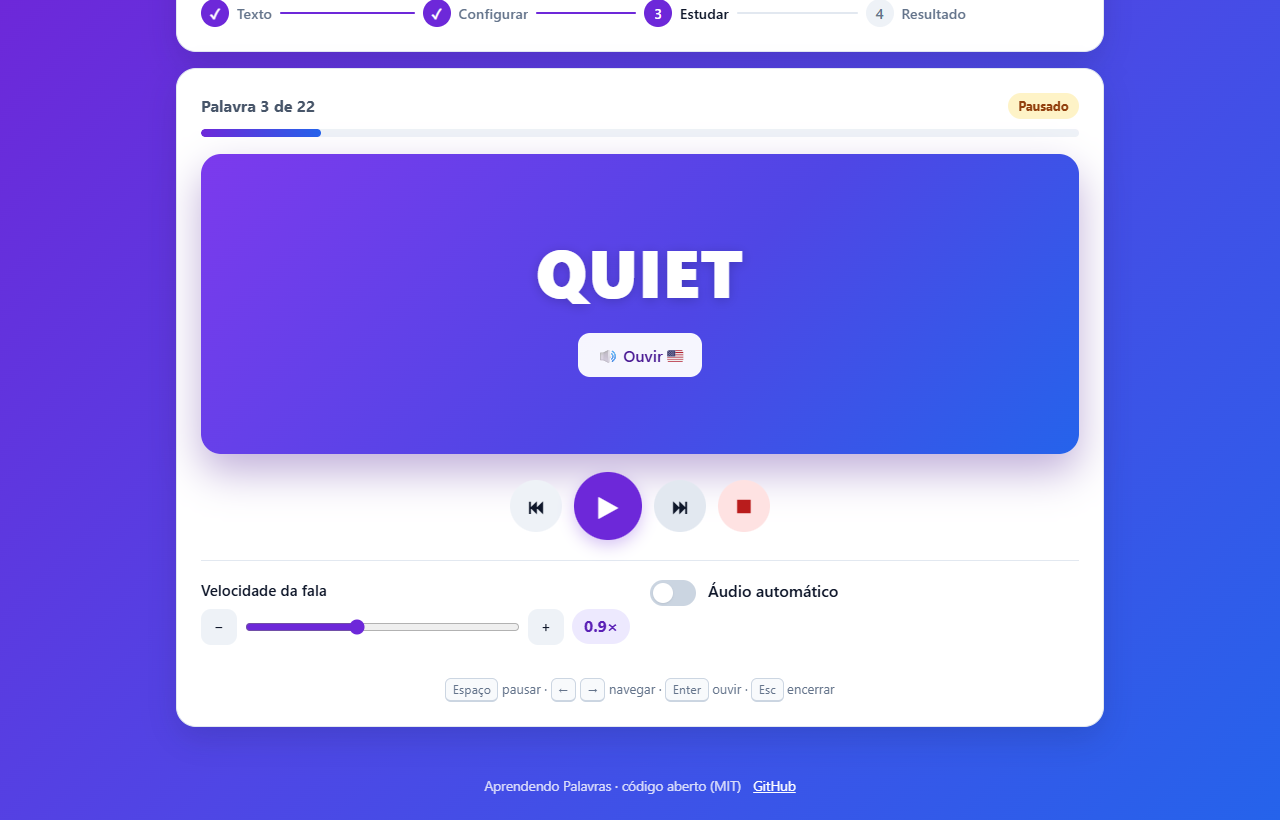
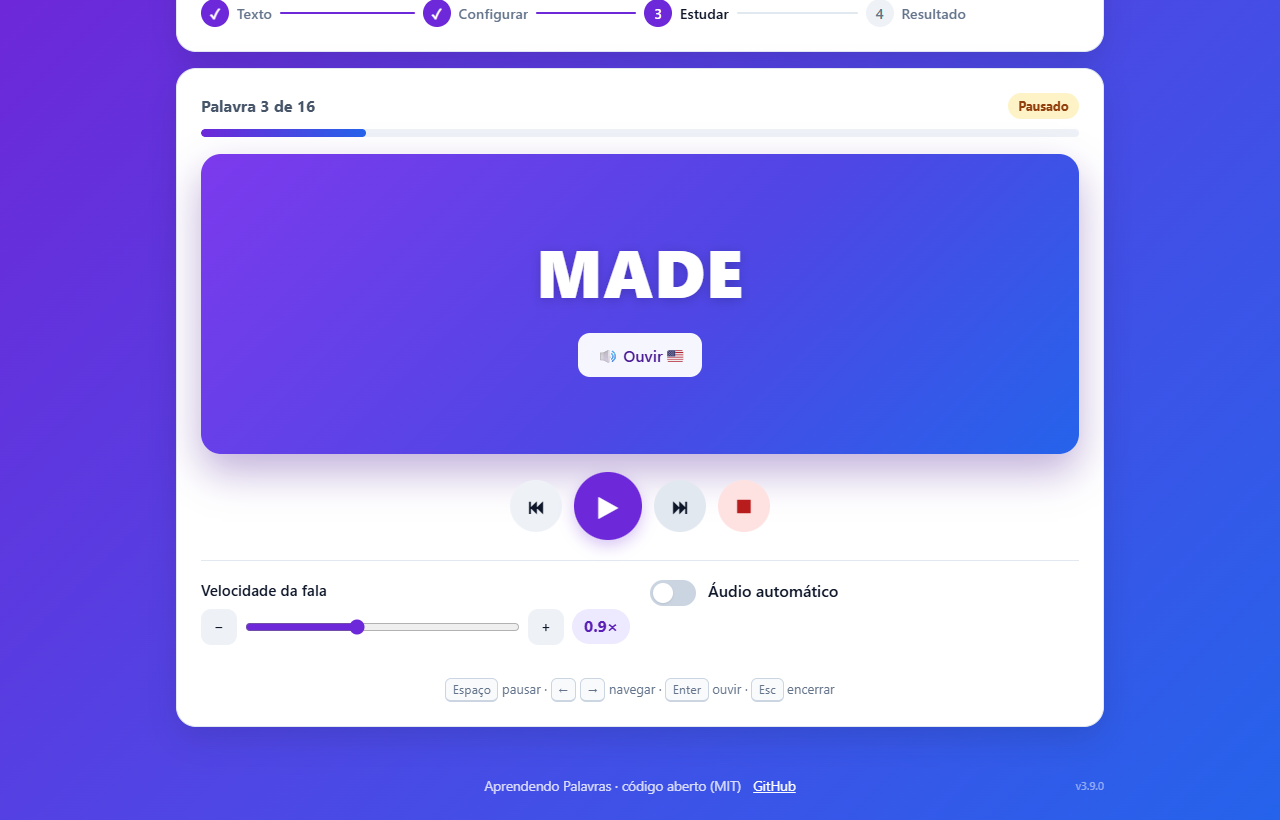
Mostra a versão no rodapé e revisa o app e a documentação (v3.9.0)
- Versão do app no rodapé, pequena e à direita (vem de config.js);
  no celular, vai para a linha de baixo
- Aviso de 'parte mais difícil' só no nível iniciante; dica de
  'gerar de novo' só para textos da IA
- Remove CSS sem uso e a captura de tela que não era usada
- Capturas de tela refeitas (inclui a página de tradução do PDF)
- Documentação revisada: README, ARQUITETURA, FORMATO-PDF, ROADMAP,
  CONTRIBUTING, descrição do PWA e modelo de relato (pede a versão)

diff --git a/js/create/generator.js b/js/create/generator.js
@@ -85,12 +85,13 @@ async function buscarReferencia({ tema, idioma, nivel, fetchFn, aoEtapa, palavra
 }
 
 /** Aviso para textos da Wikipédia entregues sem IA (mais difíceis ou mais curtos que o pedido). */
-function avisoSemIA(referencia, palavras) {
+function avisoSemIA(referencia, palavras, nivel) {
   const total = contarPalavras(referencia.texto);
   if (total < palavras * FRACAO_MINIMA) {
     return `A Wikipédia só tem ${total} palavras sobre “${referencia.titulo}” (o nível pede ${palavras}). Para um texto maior, configure a IA (Gemini) ou escolha um tema mais amplo.`;
   }
-  if (referencia.complemento) {
+  // Só para iniciantes a Wikipédia normal é "mais difícil" que o esperado.
+  if (referencia.complemento && nivel === 'iniciante') {
     return 'O artigo em inglês simples era curto: a parte final veio da Wikipédia em inglês normal, que é mais difícil. Com a IA (Gemini) configurada, o texto todo sai no nível escolhido.';
   }
   return '';
@@ -182,11 +183,11 @@ export async function criarTexto({
         aoEtapa?.('Não foi possível adaptar; mostrando o artigo original.');
         texto = prepararArtigo(artigo.texto, { maxPalavras: alvo });
         aoTexto?.(texto);
-        aviso = avisoSemIA({ ...artigo, texto }, alvo);
+        aviso = avisoSemIA({ ...artigo, texto }, alvo, nivel);
       }
     } else {
       aoTexto?.(texto);
-      aviso = avisoSemIA(artigo, alvo);
+      aviso = avisoSemIA(artigo, alvo, nivel);
     }
     return resultado({
       modo,
@@ -236,7 +237,7 @@ export async function criarTexto({
         nivel,
         fonte: fonteWikipedia(referencia),
         geradoPorIA: false,
-        aviso: avisoSemIA(referencia, alvo),
+        aviso: avisoSemIA(referencia, alvo, nivel),
       });
     }
     throw new Error(

diff --git a/js/screens/CreateScreen.js b/js/screens/CreateScreen.js
@@ -66,6 +66,14 @@ const SUGESTOES = [
   'Meio ambiente',
 ];
 
+/** Dica quando o nível estimado não bate com o pedido (gerar de novo só ajuda com a IA). */
+function dicaNivel(resultado, analise) {
+  if (analise.nivelEstimado === resultado.nivel) return '';
+  return resultado.geradoPorIA
+    ? ' — gere de novo se quiser mais próximo do pedido'
+    : ' — o texto vem da Wikipédia como está; com a IA (Gemini), ele é adaptado ao nível';
+}
+
 export class CreateScreen {
   constructor() {
     const prefs = settings.carregar();
@@ -318,7 +326,7 @@ export class CreateScreen {
           a
             ? html`<p class="texto-pequeno texto-suave">
               ${a.palavras} palavras · ${a.palavrasPorFrase} palavras por frase · legibilidade ${a.facilidade}/100
-              (parece nível <strong>${estimado.nome}</strong>${a.nivelEstimado !== r.nivel ? ' — gere de novo se quiser mais próximo do pedido' : ''})
+              (parece nível <strong>${estimado.nome}</strong>${dicaNivel(r, a)})
             </p>`
             : ''
         }

diff --git a/css/base.css b/css/base.css
@@ -278,15 +278,46 @@ a {
   max-width: var(--largura);
   margin: 0 auto;
   padding: 1rem 1rem max(1.5rem, env(safe-area-inset-bottom));
-  display: flex;
-  justify-content: center;
+  /* Textos no centro e a versão, bem pequena, à direita. */
+  display: grid;
+  grid-template-columns: 1fr auto 1fr;
+  align-items: center;
   gap: 0.75rem;
   font-size: 0.85rem;
   color: rgba(255, 255, 255, 0.8);
 }
 
+.rodape__textos {
+  grid-column: 2;
+  display: flex;
+  flex-wrap: wrap;
+  justify-content: center;
+  gap: 0.75rem;
+  text-align: center;
+}
+
+.rodape__versao {
+  grid-column: 3;
+  justify-self: end;
+  font-size: 0.7rem;
+  opacity: 0.6;
+  font-variant-numeric: tabular-nums;
+}
+
 .rodape a {
   color: #fff;
+}
+
+@media (max-width: 560px) {
+  .rodape {
+    grid-template-columns: 1fr;
+    gap: 0.35rem;
+  }
+
+  .rodape__textos,
+  .rodape__versao {
+    grid-column: 1;
+  }
 }
 
 /* --------------------------------------------------------------------------

diff --git a/js/main.js b/js/main.js
@@ -2,7 +2,7 @@
  * Ponto de entrada do aplicativo.
  */
 
-import { TIPOS } from './config.js';
+import { APP, TIPOS } from './config.js';
 import { definirNavegador, ROTAS } from './core/nav.js';
 import { criarRouter } from './core/router.js';
 import { speaker, vozes } from './audio/index.js';
@@ -18,6 +18,8 @@ import { toast } from './ui/toast.js';
 
 function iniciar() {
   iniciarTema();
+  const versao = document.getElementById('versaoApp');
+  if (versao) versao.textContent = `v${APP.versao}`;
 
   const raiz = document.getElementById('app');
   const botaoInicio = document.getElementById('btnInicio');

diff --git a/index.html b/index.html
@@ -93,10 +93,13 @@
     </main>
 
     <footer class="rodape">
-      <span>Aprendendo Palavras · código aberto (MIT)</span>
-      <a href="https://github.com/Joshpcbrrj/projeto-palavras" target="_blank" rel="noopener"
-        >GitHub</a
-      >
+      <span class="rodape__textos">
+        <span>Aprendendo Palavras · código aberto (MIT)</span>
+        <a href="https://github.com/Joshpcbrrj/projeto-palavras" target="_blank" rel="noopener"
+          >GitHub</a
+        >
+      </span>
+      <span class="rodape__versao" id="versaoApp" title="Versão do app"></span>
     </footer>
   </body>
 </html>

diff --git a/sw.js b/sw.js
@@ -6,7 +6,7 @@
  * subdiretórios (ex.: GitHub Pages em /projeto-palavras/).
  */
 
-const VERSAO = 'v3.8.0';
+const VERSAO = 'v3.9.0';
 const CACHE_APP = `aprendendo-palavras-${VERSAO}`;
 const CACHE_CDN = 'aprendendo-palavras-cdn';
 

diff --git a/js/config.js b/js/config.js
@@ -6,7 +6,7 @@
 export const APP = Object.freeze({
   nome: 'Aprendendo Palavras',
   id: 'aprendendo-palavras',
-  versao: '3.8.0',
+  versao: '3.9.0',
 });
 
 export const TIPOS = Object.freeze({

diff --git a/css/components.css b/css/components.css
@@ -270,10 +270,6 @@
   border-radius: 10px;
 }
 
-.campo--acao {
-  justify-content: flex-end;
-}
-
 .input {
   width: 100%;
   min-height: 44px;

diff --git a/README.md b/README.md
@@ -35,20 +35,20 @@
 
 ## Recursos
 
-|                                        |                                                                                                                                                                                                                                                                   |
-| -------------------------------------- | ----------------------------------------------------------------------------------------------------------------------------------------------------------------------------------------------------------------------------------------------------------------- |
-| ✨ **Criar textos**                    | Diálogos sobre qualquer tema, explicações estilo enciclopédia (Wikipédia, com Simple English para iniciantes) e textos no seu nível (iniciante, intermediário, fluente). Tema pode ser digitado em português. Usa a Wikipédia e o Google Gemini (chave gratuita). |
-| 🎵 **Exportar MP3**                    | Áudio de textos (com uma voz por pessoa nos diálogos) e da pronúncia das palavras/frases estudadas, com repetições, pausas e o número de cada item (para acompanhar no PDF) — grátis, com a voz neural Kokoro gerada no próprio navegador.                        |
-| 📖 **Flashcards de palavras e frases** | Cole um texto e o app extrai as palavras (sem repetições e, se quiser, sem as muito comuns como “the”, “to”, “is”) ou as frases. Funciona com qualquer alfabeto, inclusive japonês e chinês.                                                                      |
-| 🔊 **Pronúncia automática**            | Cada item é falado ao aparecer, com repetição de 1× a 3×, velocidade ajustável e escolha da voz.                                                                                                                                                                  |
-| ⏯ **Controle total do estudo**        | Pausar, voltar, avançar e ouvir de novo — com atalhos de teclado.                                                                                                                                                                                                 |
-| 🎧 **Leitura de textos**               | O texto é lido frase a frase com destaque na tela; clique em qualquer frase para ouvir a partir dela, repita a frase atual ou adicione pausas.                                                                                                                    |
-| 📦 **Kit de estudo**                   | PDF + MP3 com um clique, com o mesmo nome de arquivo. No fim do PDF, uma página com **tudo traduzido para o português** (mesma numeração ou mesmos parágrafos), para revisar rápido.                                                                              |
-| 📄 **PDFs revisáveis**                 | Os PDFs exportados guardam os dados exatos do estudo e a data da próxima revisão. Abra-os depois em “Revisar arquivo” para continuar.                                                                                                                             |
-| 🗓 **Revisão espaçada**                | Cada revisão concluída agenda a próxima (1 → 3 → 7 → 14 → 30 → 60 dias). Revisões pendentes aparecem na tela inicial.                                                                                                                                             |
-| 📈 **Progresso**                       | Sessões, tempo de estudo, palavras estudadas, textos/PDFs/MP3 criados, dias seguidos e backup em JSON que pode ser **juntado** entre aparelhos.                                                                                                                   |
-| 🌙 **Tema claro e escuro**             | Segue o sistema automaticamente ou pela sua escolha.                                                                                                                                                                                                              |
-| 📱 **PWA**                             | Instale no celular ou no computador e use offline.                                                                                                                                                                                                                |
+|                                        |                                                                                                                                                                                                                                                                                                 |
+| -------------------------------------- | ----------------------------------------------------------------------------------------------------------------------------------------------------------------------------------------------------------------------------------------------------------------------------------------------- |
+| ✨ **Criar textos**                    | Diálogos sobre qualquer tema, explicações estilo enciclopédia (Wikipédia, com Simple English para iniciantes) e textos no seu nível (iniciante, intermediário, fluente — 700, 1.200 e 2.000 palavras). Tema pode ser digitado em português. Usa a Wikipédia e o Google Gemini (chave gratuita). |
+| 🎵 **Exportar MP3**                    | Áudio de textos (com uma voz por pessoa nos diálogos) e da pronúncia das palavras/frases estudadas, com repetições, pausas e o número de cada item (para acompanhar no PDF) — grátis, com a voz neural Kokoro gerada no próprio navegador.                                                      |
+| 📖 **Flashcards de palavras e frases** | Cole um texto e o app extrai as palavras (sem repetições e, se quiser, sem as muito comuns como “the”, “to”, “is”) ou as frases. Funciona com qualquer alfabeto, inclusive japonês e chinês.                                                                                                    |
+| 🔊 **Pronúncia automática**            | Cada item é falado ao aparecer, com repetição de 1× a 3×, velocidade ajustável e escolha da voz.                                                                                                                                                                                                |
+| ⏯ **Controle total do estudo**        | Pausar, voltar, avançar e ouvir de novo — com atalhos de teclado.                                                                                                                                                                                                                               |
+| 🎧 **Leitura de textos**               | O texto é lido frase a frase com destaque na tela; clique em qualquer frase para ouvir a partir dela, repita a frase atual ou adicione pausas.                                                                                                                                                  |
+| 📦 **Kit de estudo**                   | PDF + MP3 com um clique, com o mesmo nome de arquivo. No fim do PDF, uma página com **tudo traduzido para o português** (mesma numeração ou mesmos parágrafos), para revisar rápido.                                                                                                            |
+| 📄 **PDFs revisáveis**                 | Os PDFs exportados guardam os dados exatos do estudo e a data da próxima revisão. Abra-os depois em “Revisar arquivo” para continuar.                                                                                                                                                           |
+| 🗓 **Revisão espaçada**                | Cada revisão concluída agenda a próxima (1 → 3 → 7 → 14 → 30 → 60 dias). Revisões pendentes aparecem na tela inicial.                                                                                                                                                                           |
+| 📈 **Progresso**                       | Sessões, tempo de estudo, palavras estudadas, textos/PDFs/MP3 criados, dias seguidos e backup em JSON que pode ser **juntado** entre aparelhos.                                                                                                                                                 |
+| 🌙 **Tema claro e escuro**             | Segue o sistema automaticamente ou pela sua escolha.                                                                                                                                                                                                                                            |
+| 📱 **PWA**                             | Instale no celular ou no computador e use offline.                                                                                                                                                                                                                                              |
 
 <table>
   <tr>
@@ -57,7 +57,7 @@
   </tr>
   <tr>
     <td><img src="docs/screenshots/leitura.png" alt="Leitura de texto com a frase atual destacada" /></td>
-    <td><img src="docs/screenshots/mp3.png" alt="Exportação de áudio MP3" /></td>
+    <td><img src="docs/screenshots/mp3.png" alt="Kit de estudo: PDF e MP3 com o mesmo nome" /></td>
   </tr>
   <tr>
     <td><img src="docs/screenshots/revisar.png" alt="Revisão de um PDF exportado" /></td>
@@ -67,7 +67,7 @@
 
 ## Como usar
 
-1. **Criar um texto** — em **Criar textos**, escolha o modo (diálogo, mergulhar no tema ou por nível), digite o tema (pode ser em português), o nível e clique em **Criar texto**. Depois, ouça, gere o PDF/MP3 ou transforme em flashcards.
+1. **Criar um texto** — em **Criar textos**, escolha o modo (diálogo, mergulhar no tema ou por nível), digite o tema (pode ser em português), o nível (que também define o tamanho do texto) e clique em **Criar texto**. Depois, ouça, gere o PDF/MP3 ou transforme em flashcards.
 2. **Estudar palavras ou frases** — cole um texto (ou abra um `.txt`), confira o idioma e a quantidade e clique em **Iniciar estudo**. Voz, repetição, velocidade, pausa e ordem ficam em **Mais opções**.
 3. **Durante o estudo** — use os botões ou o teclado:
 
@@ -91,8 +91,9 @@ Cada PDF tem duas camadas:
 - **O que o app lê** — um pacote com os dados exatos (itens, idioma, título e agenda de revisão) guardado nas propriedades do documento. Assim a revisão não depende de “adivinhar” o conteúdo a partir do texto do PDF.
 
 <details>
-<summary>Exemplo de PDF gerado</summary>
-<img src="docs/screenshots/pdf-palavras.png" alt="Exemplo de PDF de palavras" width="520" />
+<summary>Exemplo de PDF gerado (lista e página de tradução)</summary>
+<img src="docs/screenshots/pdf-palavras.png" alt="Exemplo de PDF de palavras" width="420" />
+<img src="docs/screenshots/pdf-traducao.png" alt="Página de tradução no fim do PDF, com a mesma numeração da lista" width="420" />
 </details>
 
 PDFs gerados pelas **versões anteriores** do app continuam funcionando: o conteúdo é reconstruído a partir do texto. Idiomas fora do alfabeto latino (russo, japonês, chinês, coreano) aparecem corretamente no PDF. Detalhes técnicos em [docs/FORMATO-PDF.md](docs/FORMATO-PDF.md).
@@ -118,7 +119,7 @@ O nível define a dificuldade **e o tamanho** do texto — no mínimo 700 palavr
 | Fluente       | 2.000             | ≈ 6 páginas |
 
 - **Com o Gemini:** se o texto sair mais curto que o pedido, o app pede para a IA continuar (até 3 vezes), sem repetir o que já foi escrito. Textos longos são divididos em seções com título.
-- **Só com a Wikipédia:** o artigo é usado até o tamanho do nível. Para iniciantes, a Simple English costuma ser curta; ela é completada com as seções do mesmo artigo na Wikipédia em inglês normal (mais difícil — o app avisa). Se o artigo inteiro for curto, o app também avisa.
+- **Só com a Wikipédia:** o artigo é usado até o tamanho do nível, sem pular parágrafos. A Simple English costuma ser curta; ela é completada com as seções do mesmo artigo na Wikipédia em inglês normal (para iniciantes, essa parte é mais difícil — o app avisa). Se o artigo inteiro for curto, o app também avisa.
 
 ### Tradução no final do PDF
 
@@ -179,7 +180,7 @@ Sem Node, você pode usar, por exemplo, `python -m http.server` na pasta do proj
 
 ### Publicação
 
-O site é servido diretamente pelo GitHub Pages a partir da branch `main` (todos os caminhos são relativos). Ao publicar uma nova versão, altere `VERSAO` em [`sw.js`](sw.js) para que os usuários recebam os arquivos atualizados.
+O site é servido diretamente pelo GitHub Pages a partir da branch `main` (todos os caminhos são relativos). Ao publicar uma nova versão, atualize o número em três lugares — `version` no [`package.json`](package.json), `APP.versao` em [`js/config.js`](js/config.js) (é o que aparece no rodapé do app) e `VERSAO` em [`sw.js`](sw.js) (faz os usuários receberem os arquivos novos). Um teste confere se os três estão iguais.
 
 ## Arquitetura
 
@@ -211,18 +212,19 @@ Visão geral das decisões técnicas em [docs/ARQUITETURA.md](docs/ARQUITETURA.m
 
 ## Testes e qualidade
 
-- **Vitest** com testes que importam o código real: extração de texto, revisão espaçada, sessão de estudo, leitor de áudio (com síntese de voz simulada), progresso e migração de dados, telas no jsdom, **geração + leitura de PDFs reais** (jsPDF → pdf.js), criação de textos (Wikipédia e IA simuladas), Gemini (streaming simulado) e **geração de MP3 real** (lamejs).
+- **Vitest** com testes que importam o código real: extração de texto, revisão espaçada, sessão de estudo, leitor de áudio (com síntese de voz simulada), progresso, backup e junção entre aparelhos, migração de dados, telas no jsdom, **geração + leitura de PDFs reais** (jsPDF → pdf.js, inclusive a página de tradução), criação de textos e tamanho por nível (Wikipédia e IA simuladas), tradução (Gemini e tradutor do navegador simulados), Gemini (streaming simulado), nivelamento de volume e **geração de MP3 real** (lamejs).
+- Testes de integridade do projeto: lista de arquivos do service worker, Content-Security-Policy (hash do script e origens permitidas) e versão igual no `package.json`, `config.js` e `sw.js`.
 - **ESLint** e **Prettier** rodam no CI e no pre-commit (Husky + lint-staged).
 
 ## Compatibilidade
 
-| Navegador                            | Tudo (estudo, PDFs, criar textos, MP3) | Voz dentro do app                    |
-| ------------------------------------ | -------------------------------------- | ------------------------------------ |
-| Chrome / Edge (computador e Android) | ✅                                     | ✅ (Edge tem as vozes mais naturais) |
-| Safari (macOS e iOS 15.4+)           | ✅                                     | ✅                                   |
-| Firefox                              | ✅                                     | ✅ (depende das vozes do sistema)    |
+| Navegador                            | Tudo (estudo, PDFs, criar textos, MP3) | Voz dentro do app                    | Tradução sem chave do Gemini |
+| ------------------------------------ | -------------------------------------- | ------------------------------------ | ---------------------------- |
+| Chrome / Edge (computador e Android) | ✅                                     | ✅ (Edge tem as vozes mais naturais) | ✅ (tradutor embutido)       |
+| Safari (macOS e iOS 15.4+)           | ✅                                     | ✅                                   | — (use a chave do Gemini)    |
+| Firefox                              | ✅                                     | ✅ (depende das vozes do sistema)    | — (use a chave do Gemini)    |
 
-Os dados (progresso, preferências e a chave do Gemini, se você cadastrar) ficam só no `localStorage` deste navegador, protegidos por uma Content-Security-Policy que só permite falar com a Wikipédia, o Gemini e as CDNs das bibliotecas. Use **Meu progresso → Exportar backup** para levar o progresso para outro aparelho: ao importar, escolha **Juntar** (soma os dois progressos sem contar nada em dobro, mesmo importando o mesmo arquivo de novo) ou **Substituir**. A tela inicial lembra de fazer backup quando o último tem mais de 2 semanas.
+Os dados (progresso, preferências e a chave do Gemini, se você cadastrar) ficam só no `localStorage` deste navegador, protegidos por uma Content-Security-Policy que só permite falar com a Wikipédia, o Gemini, as CDNs das bibliotecas e o Hugging Face (modelo da voz). Use **Meu progresso → Exportar backup** para levar o progresso para outro aparelho: ao importar, escolha **Juntar** (soma os dois progressos sem contar nada em dobro, mesmo importando o mesmo arquivo de novo) ou **Substituir**. A tela inicial lembra de fazer backup quando o último tem mais de 2 semanas.
 
 ## Contribuindo
 

diff --git a/docs/ARQUITETURA.md b/docs/ARQUITETURA.md
@@ -27,6 +27,7 @@ flowchart LR
   audio --> text[text/extract.js]
   pdf --> text
   services --> pdf
+  services --> create
 ```
 
 | Pasta       | Responsabilidade                                                                                                                                                                                                                                                                                                                                                                                                                                                   |
@@ -70,6 +71,15 @@ planejarAudio(conteúdo) → trechos [{texto, voz, pausa}]
 Mp3Builder (lamejs): junta os trechos + silêncios em um único MP3 mono 24 kHz
 ```
 
+| Arquivo            | Responsabilidade                                                                                   |
+| ------------------ | -------------------------------------------------------------------------------------------------- |
+| `plan.js`          | `planejarAudio`: divide o conteúdo em trechos, escolhe a voz (diálogos) e define as pausas.        |
+| `engines.js`       | `KokoroMotor`: conversa com o Web Worker e escolhe placa de vídeo (WebGPU) ou processador (WASM).  |
+| `kokoro-worker.js` | Web Worker que carrega o kokoro-js e sintetiza cada trecho fora da thread principal.               |
+| `mp3.js`           | `prepararTrecho` (aparar, `nivelar`, `suavizarBordas`) e `Mp3Builder` (codificação com o lamejs).  |
+| `preview.js`       | `OuvirEnquantoGera`: toca os trechos à medida que ficam prontos.                                   |
+| `index.js`         | `gerarMp3`: junta tudo, com cache da sessão; `criarMotor` mantém um único motor de voz por visita. |
+
 Cada chamada à voz tem um custo fixo (≈ 1,5 s); por isso o planejamento reduz o número de trechos. As medições que motivaram o nivelamento e os agrupamentos estão em [ROADMAP.md](ROADMAP.md#14-áudio-qualidade-e-velocidade-versão-34).
 
 ## Ciclo de vida das telas
@@ -93,7 +103,7 @@ StudySession ──item──▶      │
 
 ## Offline
 
-`sw.js` guarda todos os arquivos do app (lista explícita, verificada por teste) e, à parte, as bibliotecas externas com versão fixa na URL (jsPDF e PDF.js do cdnjs são pré-carregadas; Kokoro e lamejs do jsDelivr ficam em cache após o primeiro uso). O modelo de voz é guardado pelas próprias bibliotecas no Cache Storage do navegador. Ao publicar, troque `VERSAO` para invalidar o cache.
+`sw.js` guarda todos os arquivos do app (lista explícita, verificada por teste) e, à parte, as bibliotecas externas com versão fixa na URL (jsPDF e PDF.js do cdnjs são pré-carregadas; Kokoro e lamejs do jsDelivr ficam em cache após o primeiro uso). O modelo de voz é guardado pelas próprias bibliotecas no Cache Storage do navegador. Ao publicar, troque a versão (em `sw.js`, `js/config.js` e `package.json` — um teste confere) para invalidar o cache; a versão aparece no rodapé do app.
 
 O Web Worker `audio/export/kokoro-worker.js` importa a biblioteca por URL fixa; um teste garante que ela é igual à de `config.js`.
 

diff --git a/docs/ROADMAP.md b/docs/ROADMAP.md
@@ -13,8 +13,10 @@
 | **Conseguir material no nível certo**     | ✅ Criar textos (diálogo, mergulho no tema, por nível) com métrica de legibilidade                                  | Bom       |
 | **Levar o material para estudar sozinho** | ✅ Kit de estudo (PDF + MP3 com o mesmo nome); MP3 com voz natural, numeração alinhada ao PDF, repetições e pausas  | Muito bom |
 | **Textos que valem a pena estudar**       | ✅ Tamanho mínimo de 700 palavras (iniciante), 1.200 (intermediário) e 2.000 (fluente), com seções e títulos no PDF | Bom       |
+| **Entender e revisar rápido**             | ✅ Tradução para o português no fim do PDF (mesma numeração nas listas, mesmos parágrafos nos textos)               | Bom       |
 | **Revisar no tempo certo**                | ✅ Cada PDF guarda a data da próxima revisão; ao reabri-lo no app, a revisão avança (1 → 3 → 7 → 14 → 30 → 60 dias) | Bom       |
-| **Facilidade de uso**                     | ✅ Telas começam só com o essencial; voz, tempo, repetições, tamanho etc. ficam em “Mais opções”                    | Bom       |
+| **Progresso em vários aparelhos**         | ✅ Backup em JSON que pode ser juntado entre aparelhos sem contar em dobro, com lembrete na tela inicial            | Bom       |
+| **Facilidade de uso**                     | ✅ Telas começam só com o essencial; voz, tempo, repetições, pausa e ordem ficam em “Mais opções”                   | Bom       |
 
 Exercícios no PDF (lacunas, perguntas com gabarito) foram avaliados e **descartados**: não são necessários para o objetivo do app.
 
@@ -49,6 +51,7 @@ Medições feitas com o Kokoro real no Edge (Windows):
 
 | #   | Atrito observado                                                | Situação                                    |
 | --- | --------------------------------------------------------------- | ------------------------------------------- |
+| U1  | Os arquivos não traziam o significado do conteúdo               | ✅ Resolvido (K1: tradução no fim do PDF)   |
 | U2  | Textos gerados eram curtos (½ a 1 página)                       | ✅ Resolvido (K10)                          |
 | U3  | Muitas opções antes de começar                                  | ✅ Resolvido (K6)                           |
 | U4  | Listas de palavras incluíam palavras inúteis (“a”, “to”, “her”) | ✅ Resolvido (K3)                           |

diff --git a/docs/FORMATO-PDF.md b/docs/FORMATO-PDF.md
@@ -60,10 +60,11 @@ Implementação: [`js/pdf/format.js`](../js/pdf/format.js). O mesmo pacote é us
 - Cabeçalho com título, tipo e idioma; faixa com data de geração, quantidade e data de revisão.
 - Palavras em três colunas, frases numeradas, ou o texto em parágrafos.
 - Nos textos, linhas curtas sem pontuação final (títulos de seção) aparecem em destaque.
+- Quando o conteúdo tem `fonte`, uma linha de atribuição (com link) aparece após o texto.
+- Logo depois do conteúdo, o quadro “Como revisar este arquivo”.
 - Com `traducao`: uma página extra no fim, “Tradução (português)”, com a mesma numeração da lista (palavras/frases) ou os mesmos parágrafos e títulos (textos). Uma tradução de lista só é aceita se tiver um item para cada item da lista.
 - PDFs das versões 3.3 a 3.5 podem ter um campo `glossario` (tradução antiga); ele é ignorado na leitura.
-- Quando o conteúdo tem `fonte`, uma linha de atribuição (com link) aparece após o texto.
-- Rodapé com número de página e instruções de revisão.
+- Rodapé de cada página com o nome do app, a data de geração e “Página X de Y”.
 - As fontes padrão do PDF cobrem apenas o Latin-1. Textos com outros caracteres (cirílico, CJK…) são desenhados como imagem via canvas com as fontes do sistema; os dados exatos continuam no pacote.
 
 ## Compatibilidade futura
